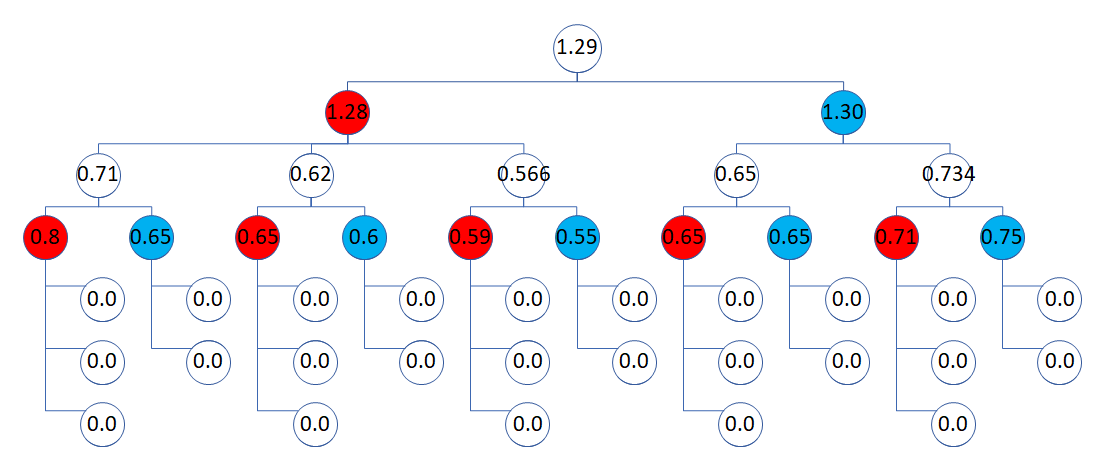
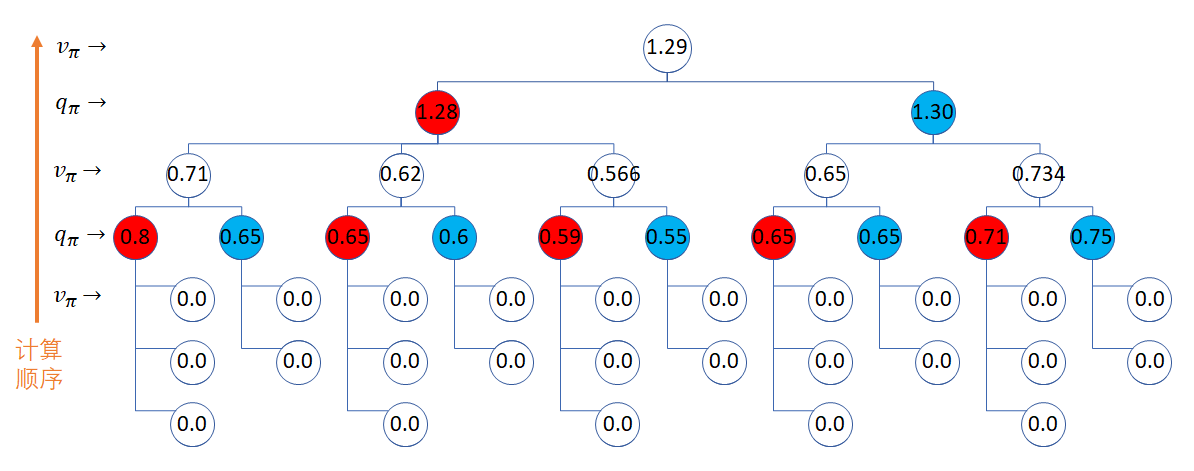
update

diff --git a/基础教程/A7-强化学习/draft/80-马尔可夫决策过程/1-射击问题.md b/基础教程/A7-强化学习/draft/80-马尔可夫决策过程/1-射击问题.md
@@ -52,7 +52,10 @@
 图 2 错误的状态转移图
 </center>
 
-其实这个问题的状态转移图应该如图 3 所示，是一个有向无环图。
+其实这个问题的状态转移图应该如图 3 所示，是一个有向无环图。图中：
+- 圆圈内的数值是该状态的序号。
+- 连线上的数值是状态转移概率。
+- 红色的 $R$ 是面向结果的奖励值。
 
 <center>
 <img src="./img/shoot-3.png">
@@ -100,7 +103,9 @@ v_0 = -4 + 0.08v_1+0.54v_2+0.38v_3 = -2.7268
 \end{cases}
 $$
 
-最终的状态价值函数结果标在图 5 中。
+最终的状态价值函数结果标在图 5 中。图中：
+- 圆圈内的数值是马尔可夫奖励过程的状态价值函数。
+- 连线上的数值是状态转移概率。
 
 <center>
 <img src="./img/shoot-6.png">
@@ -132,7 +137,7 @@ $$
 
 实际上，老板并不知道游客选择的是哪个气球，他只看到了最终的结果。游客自己也不会主动说我要射击哪一个气球，只不过心里有数罢了。
 
-经过对游客的调查与过程观察，以及与老板的访谈，我们得到了一些数据，如图 4 所示。
+经过对游客的调查与过程观察，以及与老板的访谈，我们得到了一些更细化的统计数据，如图 4 所示。
 
 <center>
 <img src="./img/shoot-4.png">
@@ -141,18 +146,18 @@ $$
 </center>
 
 
-1. 在开始状态时，游客的策略（称之为 $\pi$）可以有两个：
-    - $a_1$ - 选择射击小气球而中大奖，大概有 40% 的人选择。
-    - $a_2$ - 选择射击大气球而中小奖，大概有 60% 的人选择。
+1. 在开始状态时，游客的**策略**选择可以有两个：
+    - $a_1$ - 选择射击小气球而中大奖，大概有 40% 的人选择，记为 $\pi_1=0.4$。
+    - $a_2$ - 选择射击大气球而中小奖，大概有 60% 的人选择，记为 $\pi_2=0.6$。
 
-2. 选择 $a_1$（记为 $\pi_1$），在射击红色小气球时：
-    - 只有 0.20 的概率打中，因为气球比较小，不容易击中，记为 $p_{11}=0.20$；
-    - 却有 0.75 的概率脱靶，记为 $p_{12}=0.75$；
-    - 还有 0.05 的概率很离谱地击中大气球而中小奖，记为 $p_{13}=0.05$。
+2. 执行**动作** $a_1$，在射击红色小气球时，有可能的**过程**及**结果**是：
+    - 因为气球比较小，不容易击中，只有 0.20 的概率打中，得**大奖**，记为 $p_{11}=0.20$；
+    - 却有 0.75 的概率**脱靶**，记为 $p_{12}=0.75$；
+    - 还有 0.05 的概率歪打正着地击中大气球而得**小奖**，记为 $p_{13}=0.05$。
 
-3. 选择 $a_2$（记为 $\pi_2$），在射击大气球时：
-    - 有 0.6 的概率击中，因为气球比较大，容易击中，记为 $p_{23}=0.6$；
-    - 有 0.4 的概率脱靶，记为 $p_{22}=0.4$；
+3. 选择**动作** $a_2$，在射击大气球时，有可能的**过程**及**结果**是：
+    - 因为气球比较大，容易击中，有 0.6 的概率击中，得**小奖**，记为 $p_{23}=0.6$；
+    - 有 0.4 的概率**脱靶**，记为 $p_{22}=0.4$；
     - 没有任何运气可以击中小气球，记为 $p_{21}=0.0$。
         - 这种情况在实际解题时可以不必画出来，在这里画出来是为了把细节讲清楚，避免误解。
 
@@ -174,21 +179,32 @@ $$
 
 - 中小奖的概率是两种情况之和：
     1. 选择射击蓝色大气球，击中，$\pi_2 p_{23}= 0.6 \times 0.6 = 0.36$
-    2. 选择射击红色小气球，但却误伤蓝色大气球，$\pi_1 p_{13}= 0.4 \times 0.05 = 0.02$
+    2. 选择射击红色小气球，但却误中蓝色大气球，$\pi_1 p_{13}= 0.4 \times 0.05 = 0.02$
     
     和为 $0.36+0.02=0.38$
 
 
-所以这个结果 [0.08, 0.54, 0.38] 和老板统计的第一次射击的结果是一致的。
+所以这个结果 [0.08, 0.54, 0.38] 和老板在图 shoot-1 中统计的第一次射击的结果是一致的。
+
+### 强化学习
 
 
-仔细地想一下所有智能生物的行为，都是根据当前环境情况先做出决策，选择动作，然后得到结果与奖励。
+<center>
+<img src="./img/RL-basic.png">
+
+图 4 正确的的状态转移图
+</center>
+
+
+
+
+回顾一下人们所了解的所有智能生物的行为，都是根据当前环境情况先做出决策，选择动作，然后得到结果与奖励。
 - 这里的决策就是图 4 中的 $\pi$，可以是一个函数，直接输出一个选择好的动作值，红色的 $a_1$ 或蓝色的 $a_2$。
 - 这里的结果就是图 4 中的状态，包括开始、中大奖、中小奖、脱靶，与**马尔可夫过程**以及**马尔可夫奖励过程**中的状态是一个概念。
 
-转移概率如何理解呢？
+**过程**如何理解呢？
 
-最简单并且容易理解的说法是：人们做一件事，一般都会有两个结果，即成功和失败，你可以努力争取成功，但是并不能完全避免失败。这就可以叫做转移概率。只不过你非常努力的时候，转移到成功状态的概率较大，而转移到失败状态的概率较小。
+最简单并且容易理解的说法是：人们做一件事，一般都会有两个结果，即成功和失败，你可以努力争取成功，但是并不能完全避免失败。这就可以叫做**转移概率**。只不过你非常努力的时候，转移到成功状态的概率较大，而转移到失败状态的概率较小。
 
 用本例来说明的话，可以解释为：
 

diff --git a/基础教程/A7-强化学习/draft/80-马尔可夫决策过程/4-解决一个复杂问题.md b/基础教程/A7-强化学习/draft/80-马尔可夫决策过程/4-解决一个复杂问题.md
@@ -1,0 +1,81 @@
+
+因为在射击问题中，有以下几个特点：
+
+- 是一个单向选择和转移的过程，最后形成了一张有向无环图。这就决定了我们可以从后向前一步步**回溯**，自下向上逐层计算状态价值函数 $v_\pi(s)$ 和动作价值函数 $q_\pi(s,a)$，直到开始状态。其计算过程是：$v_T \to q_\pi \to v_\pi \to q_\pi \to v_\pi$，如图 mdp-8 所示。
+
+- 每个分支的细节分析起来比较多，但实际上分支之间的区别只存在于状态转移的过程的具体概率数值上。比如图 mdp-7 所示，其中的“红3”动作后的状态转移概率是 [0.25,0.7.0.05]，而动作“红5”的状态转移概率是 [0.2,0.75,0.05]。这种细节只是导致计算结果不同，但概念是相同的。
+
+- 而另外一个重要的策略选择问题，我们暂时用“红:蓝=0.4:0.6”的统计结果设定了，在两次射击时都是如此。但是在实际问题中，游客各有各的策略，这种统一的设定只是一种统计结果。游乐场老板虽然精明，但是游客们也不是傻子，谁都知道连续两次选择红色气球是有机会得到最高值 6 分的奖励的，只不过是能不能顺利实现的问题。
+
+
+
+
+### 二级回溯
+
+从前面的推导中，可以在已知 $q_\pi(s,a)$ 时计算出 $v_\pi(s)$（式5），也可以已知 $v_\pi(s)$ 计算出 $q_\pi(s,a)$（式2），这似乎变成了一个鸡生蛋蛋生鸡的死循环问题。能不能像贝尔曼方程那样，从$v_\pi(s')$ 计算出 $v_\pi(s)$ 来，从$q_\pi(s',a')$ 计算出 $q_\pi(s,a)$ 来呢？这样的话，我们就可以继续利用前面学过的迭代法或者矩阵法来方便地解出状态价值函数和动作价值函数了。
+
+先绘制出两张二级回溯图，方便公式推导。如图 6 所示。
+
+<center>
+<img src="./img/mdp-7.png">
+
+图 6
+</center>
+
+先看左图，我们的目的是想从 $v_\pi(s')$ 得到 $v_\pi(s)$，中间隔着一个 $q_\pi(s,a)$。如果把 $q_\pi(s,a)$ 的表达式带入 $v_\pi(s)$ 的表达式，就可以达到消去 $q_\pi(s,a)$ 的目的了。
+
+
+于是可以把式 2.1 的 $q_\pi(s,a)$ 带入式 5：
+
+
+$$
+\begin{aligned}
+v_\pi(s) &= \sum_a \pi(a|s)q_\pi(s,a) &(式5)
+\\
+(带入式2.1替换 q_\pi \to)&=\sum_a \pi(a|s) \Big(\sum_{s'} p_{ss'}^a [r_{ss'}^a+\gamma v_\pi(s')]\Big) &(10.1)
+\\
+(矩阵形式\to)&=\sum_a \pi(a|s) \Big(P^a_{ss'}[R^a_{ss'}+\gamma V_\pi(s')]\Big) &(10.2)
+\\
+(动作奖励函数形式\to)&=\sum_a \pi(a|s) \Big( R^a(s)+ \gamma P_{ss'}^a V_\pi(s') \Big) &(10.3)
+\end{aligned}
+\tag{10}
+$$
+
+式 10 就是 $v_\pi$ 的迭代表达式。
+
+再看右图，想把$v_\pi(s')$ 消掉，需要先得到它的表达式。
+
+从式 5 把 $s,a$ 换成 $s',a'$，可以得到式 11：
+
+$$
+v_\pi(s') = \sum_{a'} \pi(a'|s')q_\pi(s',a')
+\tag{11}
+$$
+
+把式 11 带入式 2：
+
+$$
+\begin{aligned}
+q_\pi(s,a)&=\sum_{s'} p_{ss'}^a \big [r_{ss'}^a+\gamma v_\pi(s') \big ] &(式2.1)
+\\
+(带入式11替换v_\pi\to)&=\sum_{s'} p_{ss'}^a \Big ( r_{ss'}^a+\gamma \sum_{a'} [\pi(a'|s')q_\pi(s',a') ] \Big) &(12.1)
+\\
+(动作奖励函数形式 \to)&=R^a(s)+\gamma \sum_{s'} p_{ss'}^a \Big ( \sum_{a'} [\pi(a'|s')q_\pi(s',a')] \Big) &(12.2)
+\end{aligned}
+\tag{12}
+$$
+
+式 12 就是 $q_\pi$ 的迭代的表达形式。
+
+本节的公式有些多，下面总结一下，便于读者以后速查。
+
+表 3 $v_\pi, q_\pi$ 的互换速查表
+
+|=|$v_\pi$|$q_\pi$|
+|-|-|-|
+|$v_\pi$|$v_\pi(s)=\sum_a \pi(a \mid s) \Big(\sum_{s'} p_{ss'}^a [r_{ss'}^a+\gamma v_\pi(s')]\Big)$<br>(式10.1)|$v_\pi(s) = \sum_{a} \pi(a \mid s)q_\pi(s,a)$ <br>(式5)|
+|$q_\pi$|$q_\pi(s,a)=\sum_{s'} p_{ss'}^a \big [r_{ss'}^a+\gamma v_\pi(s') \big ]$<br> (式2.1)|$q_\pi(s,a)=\sum_{s'} p_{ss'}^a \Big ( r_{ss'}^a+\gamma \sum_{a'} [\pi(a'\mid s')q_\pi(s',a') ] \Big)$<br> (式12.1)|
+
+在表 3 中，我们只给出了公式的原始形式，读者可以在实际用使用矩阵形式或是奖励函数形式。
+
+

diff --git a/基础教程/A7-强化学习/draft/80-马尔可夫决策过程/3-贝尔曼期望方程.md b/基础教程/A7-强化学习/draft/80-马尔可夫决策过程/3-贝尔曼期望方程.md
@@ -289,75 +289,6 @@ $$
 - 最有趣的是第三层左侧状态节点，中间的“脱靶”状态值为 0.62，竟然比右侧的“中小奖”的状态值 0.566 要大，这是为什么呢？
     - 因为它们的上游动作是选择红色气球，很容易脱靶，如果在射击红色气球时却打中了蓝色气球中了小奖，那只能说明歪得离谱（哈哈），在实际中不能给这种“运气”以更高的估值。
 
-### 二级回溯
-
-从前面的推导中，可以在已知 $q_\pi(s,a)$ 时计算出 $v_\pi(s)$（式5），也可以已知 $v_\pi(s)$ 计算出 $q_\pi(s,a)$（式2），这似乎变成了一个鸡生蛋蛋生鸡的死循环问题。能不能像贝尔曼方程那样，从$v_\pi(s')$ 计算出 $v_\pi(s)$ 来，从$q_\pi(s',a')$ 计算出 $q_\pi(s,a)$ 来呢？这样的话，我们就可以继续利用前面学过的迭代法或者矩阵法来方便地解出状态价值函数和动作价值函数了。
-
-先绘制出两张二级回溯图，方便公式推导。如图 6 所示。
-
-<center>
-<img src="./img/mdp-7.png">
-
-图 6
-</center>
-
-先看左图，我们的目的是想从 $v_\pi(s')$ 得到 $v_\pi(s)$，中间隔着一个 $q_\pi(s,a)$。如果把 $q_\pi(s,a)$ 的表达式带入 $v_\pi(s)$ 的表达式，就可以达到消去 $q_\pi(s,a)$ 的目的了。
-
-
-于是可以把式 2.1 的 $q_\pi(s,a)$ 带入式 5：
-
-
-$$
-\begin{aligned}
-v_\pi(s) &= \sum_a \pi(a|s)q_\pi(s,a) &(式5)
-\\
-(带入式2.1替换 q_\pi \to)&=\sum_a \pi(a|s) \Big(\sum_{s'} p_{ss'}^a [r_{ss'}^a+\gamma v_\pi(s')]\Big) &(10.1)
-\\
-(矩阵形式\to)&=\sum_a \pi(a|s) \Big(P^a_{ss'}[R^a_{ss'}+\gamma V_\pi(s')]\Big) &(10.2)
-\\
-(动作奖励函数形式\to)&=\sum_a \pi(a|s) \Big( R^a(s)+ \gamma P_{ss'}^a V_\pi(s') \Big) &(10.3)
-\end{aligned}
-\tag{10}
-$$
-
-式 10 就是 $v_\pi$ 的迭代表达式。
-
-再看右图，想把$v_\pi(s')$ 消掉，需要先得到它的表达式。
-
-从式 5 把 $s,a$ 换成 $s',a'$，可以得到式 11：
-
-$$
-v_\pi(s') = \sum_{a'} \pi(a'|s')q_\pi(s',a')
-\tag{11}
-$$
-
-把式 11 带入式 2：
-
-$$
-\begin{aligned}
-q_\pi(s,a)&=\sum_{s'} p_{ss'}^a \big [r_{ss'}^a+\gamma v_\pi(s') \big ] &(式2.1)
-\\
-(带入式11替换v_\pi\to)&=\sum_{s'} p_{ss'}^a \Big ( r_{ss'}^a+\gamma \sum_{a'} [\pi(a'|s')q_\pi(s',a') ] \Big) &(12.1)
-\\
-(动作奖励函数形式 \to)&=R^a(s)+\gamma \sum_{s'} p_{ss'}^a \Big ( \sum_{a'} [\pi(a'|s')q_\pi(s',a')] \Big) &(12.2)
-\end{aligned}
-\tag{12}
-$$
-
-式 12 就是 $q_\pi$ 的迭代的表达形式。
-
-本节的公式有些多，下面总结一下，便于读者以后速查。
-
-表 3 $v_\pi, q_\pi$ 的互换速查表
-
-|=|$v_\pi$|$q_\pi$|
-|-|-|-|
-|$v_\pi$|$v_\pi(s)=\sum_a \pi(a \mid s) \Big(\sum_{s'} p_{ss'}^a [r_{ss'}^a+\gamma v_\pi(s')]\Big)$<br>(式10.1)|$v_\pi(s) = \sum_{a} \pi(a \mid s)q_\pi(s,a)$ <br>(式5)|
-|$q_\pi$|$q_\pi(s,a)=\sum_{s'} p_{ss'}^a \big [r_{ss'}^a+\gamma v_\pi(s') \big ]$<br> (式2.1)|$q_\pi(s,a)=\sum_{s'} p_{ss'}^a \Big ( r_{ss'}^a+\gamma \sum_{a'} [\pi(a'\mid s')q_\pi(s',a') ] \Big)$<br> (式12.1)|
-
-在表 3 中，我们只给出了公式的原始形式，读者可以在实际用使用矩阵形式或是奖励函数形式。
-
-
 ### 思考与练习
 
 1. 虽然 $v_\pi$ 和 $q_\pi$ 可以相互换算，但是和先有鸡还是先有蛋的问题不一样。那么在一个马尔科夫决策过程中，$v_\pi$ 和 $q_\pi$ 谁先出现呢？谁又是链条的最后一个呢？

diff --git a/基础教程/A7-强化学习/draft/80-马尔可夫决策过程/2-马尔可夫决策过程.md b/基础教程/A7-强化学习/draft/80-马尔可夫决策过程/2-马尔可夫决策过程.md
@@ -23,7 +23,24 @@ MDP - Markov Decision Process
 |马尔可夫奖励过程 MRP|$<S,P,R,\gamma>$|$S_0,R_1,S_1,R_2,\cdots,S_t,R_{t+1}$|
 |马尔可夫决策过程 MDP|$<S,A,P,R,\gamma>$|$S_0,A_0,R_1,S_1,A_1,R_2,\cdots,S_t,A_t,R_{t+1}$|
 
-#### 状态/动作模型
+#### 动作模型
+
+<center>
+<img src="./img/mdp-state-action.png">
+
+图 5 马尔可夫决策过程模型
+</center>
+
+
+#### 状态转移模型
+
+<center>
+<img src="./img/mdp-action-state.png">
+
+图 5 马尔可夫决策过程模型
+</center>
+
+#### 全模型
 
 根据这个概念定义，绘制出图 5 的马尔可夫决策过程的模型。
 
@@ -83,7 +100,7 @@ MDP - Markov Decision Process
 - 在本节的**马尔可夫决策过程**中，定义比较复杂，请看图 5。
 
 <center>
-<img src="./img/mdp-2.png">
+<img src="./img/mdp-reward.png">
 
 图 5 马尔可夫决策过程模型
 </center>

diff --git a/基础教程/A7-强化学习/draft/readme.md b/基础教程/A7-强化学习/draft/readme.md
@@ -47,3 +47,7 @@ Gym里面的more
 从估算状态价值到计算状态价值（贝尔曼方程）
 从状态价值到动作价值
 从动作价值到最优动作价值
+
+
+书中所有示意图片，都是用 Microsoft PowerPoint 绘制。
+所有文字，都是用 Microsoft Visual Studio Code 编写。
